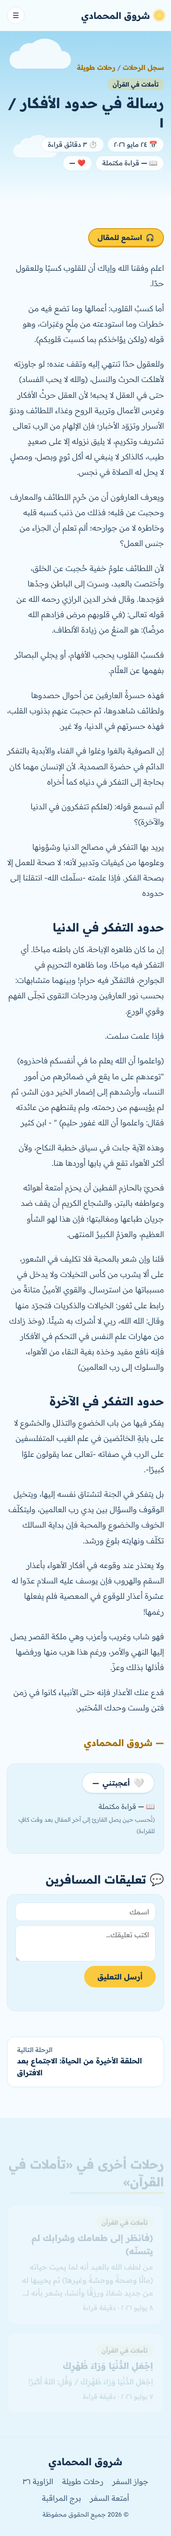
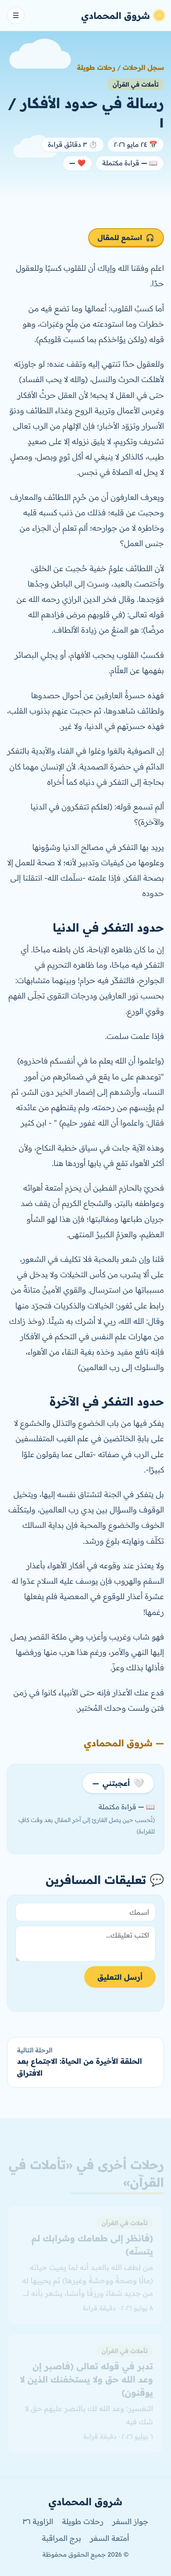
Add a poems category to long journeys
Poems in this category are laid out as verses automatically. The poem
«اِجْعَلِ الدُّنْيَا وَرَاءَ ظَهْرِكْ» moves into it.

Claude-Session: https://claude.ai/code/session_0148avAa54TH8wvGnnB1ukQi

diff --git a/blog/articles/ijal-ad-dunya.html b/blog/articles/ijal-ad-dunya.html
@@ -38,7 +38,7 @@
       <div class="clouds" aria-hidden="true"><span class="cloud c1"></span><span class="cloud c2"></span></div>
       <div class="container narrow">
         <nav class="crumbs" aria-label="مسار التنقل"><a href="../index.html">سجل الرحلات</a> / <a href="../articles.html">رحلات طويلة</a></nav>
-        <span class="tag">تأملات في القرآن</span>
+        <span class="tag">قصائد</span>
         <h1>اِجْعَلِ الدُّنْيَا وَرَاءَ ظَهْرِكْ</h1>
         <ul class="post-meta">
           <li>📅 ٧ يوليو ٢٠٢٦</li>
@@ -89,26 +89,6 @@
         <nav class="post-nav" aria-label="تنقل بين الرحلات"><a class="pn prev" href="fasbir-inna-wad-allah-haq.html"><span>الرحلة السابقة</span>تدبر في قوله تعالى (فاصبر إن وعد الله حق ولا يستخفنك الذين لا يوقنون)</a><a class="pn next" href="lam-yatasannah.html"><span>الرحلة التالية</span>(فانظر إلى طعامك وشرابك لم يتسنّه)</a></nav>
       </div>
     </article>
-
-    <section class="section alt">
-      <div class="container">
-        <h2 class="section-title">رحلات أخرى في «تأملات في القرآن»</h2>
-        <div class="posts">
-          <article class="post-card" data-tag="تأملات في القرآن">
-            <span class="tag">تأملات في القرآن</span>
-            <h3><a class="stretched" href="../articles/lam-yatasannah.html">(فانظر إلى طعامك وشرابك لم يتسنّه)</a></h3>
-            <p>من لطف الله بالعبد أنه لما يميت حياته (مالًا وصحةً ووحشةً وغيرها) ثم يحييها له من جديد شفاءً ورزقًا وأنسًا، يشعر بأنه لم ينقص منه شيء وبالفعل لم ينقص منه شيء، لأن الله جبره أعظم وكرمه أزود.</p>
-            <p class="meta">٨ يوليو ٢٠٢٦ · دقيقة قراءة</p>
-          </article>
-          <article class="post-card" data-tag="تأملات في القرآن">
-            <span class="tag">تأملات في القرآن</span>
-            <h3><a class="stretched" href="../articles/fasbir-inna-wad-allah-haq.html">تدبر في قوله تعالى (فاصبر إن وعد الله حق ولا يستخفنك الذين لا يوقنون)</a></h3>
-            <p>التفسير: وعد الله لك بالنصر عليهم حق لا شك فيه</p>
-            <p class="meta">٦ يوليو ٢٠٢٦ · دقيقة قراءة</p>
-          </article>
-        </div>
-      </div>
-    </section>
 
   </main>
 

diff --git a/blog/articles/lam-yatasannah.html b/blog/articles/lam-yatasannah.html
@@ -85,15 +85,15 @@
         <div class="posts">
           <article class="post-card" data-tag="تأملات في القرآن">
             <span class="tag">تأملات في القرآن</span>
-            <h3><a class="stretched" href="../articles/ijal-ad-dunya.html">اِجْعَلِ الدُّنْيَا وَرَاءَ ظَهْرِكْ</a></h3>
-            <p>اِجْعَلِ الدُّنْيَا وَرَاءَ ظَهْرِكْ / وَقُلِ: اللهُ أَكْبَرْ!</p>
-            <p class="meta">٧ يوليو ٢٠٢٦ · دقيقة قراءة</p>
-          </article>
-          <article class="post-card" data-tag="تأملات في القرآن">
-            <span class="tag">تأملات في القرآن</span>
             <h3><a class="stretched" href="../articles/fasbir-inna-wad-allah-haq.html">تدبر في قوله تعالى (فاصبر إن وعد الله حق ولا يستخفنك الذين لا يوقنون)</a></h3>
             <p>التفسير: وعد الله لك بالنصر عليهم حق لا شك فيه</p>
             <p class="meta">٦ يوليو ٢٠٢٦ · دقيقة قراءة</p>
+          </article>
+          <article class="post-card" data-tag="تأملات في القرآن">
+            <span class="tag">تأملات في القرآن</span>
+            <h3><a class="stretched" href="../articles/al-habl.html">الحبل: من أسماء القرآن</a></h3>
+            <p>قال فخر الدين الرازي رحمه الله أن من أسماء القرآن "الحَبْلُ: ﴿واعْتَصِمُوا بِحَبْلِ اللَّهِ جَمِيعًا﴾ [آلِ عِمْرانَ: ١٠٣] في التَّفْسِيرِ: إنَّهُ القُرْآنُ، وإنَّما سُمِّيَ بِهِ لِأنَّ المُعْتَصِمَ بِهِ في أُمُورِ دِينِهِ يَتَخَلَّصُ بِهِ مِن عُقُوبَةِ الآخِرَةِ ونَكالِ الدُّنْيا، كَما أنَّ المُتَمَسِّكَ بِالحَبْلِ يَنْجُو مِنَ الغَرَقِ والمَهالِكِ، ومِن ذَلِكَ سَمّاهُ النَّبِيُّ ﷺ عِصْمَةً فَقالَ: ”«إنَّ هَذا القُرْآنَ عِصْمَةٌ لِمَنِ اعْتَصَمَ بِهِ» “ لِأنَّهُ يَعْصِمُ النّاسَ مِنَ المَعاصِي."</p>
+            <p class="meta">٥ يوليو ٢٠٢٦ · دقيقة قراءة</p>
           </article>
         </div>
       </div>

diff --git a/blog/articles.html b/blog/articles.html
@@ -39,7 +39,7 @@
       <div class="container">
         <nav class="crumbs" aria-label="مسار التنقل"><a href="index.html">سجل الرحلات</a> / <span>رحلات طويلة</span></nav>
         <h1>رحلات طويلة</h1>
-        <p class="lead">تأملات في القرآن، ومقالات اجتماعية وفكرية.</p>
+        <p class="lead">تأملات في القرآن، ومقالات اجتماعية وفكرية، وقصائد.</p>
       </div>
     </section>
 
@@ -51,6 +51,7 @@
             <button class="filter" data-filter="تأملات في القرآن">تأملات في القرآن</button>
             <button class="filter" data-filter="مقالات اجتماعية">مقالات اجتماعية</button>
             <button class="filter" data-filter="مقالات فكرية">مقالات فكرية</button>
+            <button class="filter" data-filter="قصائد">قصائد</button>
           </div>
           <input class="search" type="search" placeholder="ابحث في الرحلات…" aria-label="ابحث في الرحلات الطويلة">
         </div>
@@ -61,8 +62,8 @@
             <p>من لطف الله بالعبد أنه لما يميت حياته (مالًا وصحةً ووحشةً وغيرها) ثم يحييها له من جديد شفاءً ورزقًا وأنسًا، يشعر بأنه لم ينقص منه شيء وبالفعل لم ينقص منه شيء، لأن الله جبره أعظم وكرمه أزود.</p>
             <p class="meta">٨ يوليو ٢٠٢٦ · دقيقة قراءة</p>
           </article>
-          <article class="post-card" data-tag="تأملات في القرآن">
-            <span class="tag">تأملات في القرآن</span>
+          <article class="post-card" data-tag="قصائد">
+            <span class="tag">قصائد</span>
             <h3><a class="stretched" href="articles/ijal-ad-dunya.html">اِجْعَلِ الدُّنْيَا وَرَاءَ ظَهْرِكْ</a></h3>
             <p>اِجْعَلِ الدُّنْيَا وَرَاءَ ظَهْرِكْ / وَقُلِ: اللهُ أَكْبَرْ!</p>
             <p class="meta">٧ يوليو ٢٠٢٦ · دقيقة قراءة</p>

diff --git a/blog/articles/fasbir-inna-wad-allah-haq.html b/blog/articles/fasbir-inna-wad-allah-haq.html
@@ -94,9 +94,9 @@
           </article>
           <article class="post-card" data-tag="تأملات في القرآن">
             <span class="tag">تأملات في القرآن</span>
-            <h3><a class="stretched" href="../articles/ijal-ad-dunya.html">اِجْعَلِ الدُّنْيَا وَرَاءَ ظَهْرِكْ</a></h3>
-            <p>اِجْعَلِ الدُّنْيَا وَرَاءَ ظَهْرِكْ / وَقُلِ: اللهُ أَكْبَرْ!</p>
-            <p class="meta">٧ يوليو ٢٠٢٦ · دقيقة قراءة</p>
+            <h3><a class="stretched" href="../articles/al-habl.html">الحبل: من أسماء القرآن</a></h3>
+            <p>قال فخر الدين الرازي رحمه الله أن من أسماء القرآن "الحَبْلُ: ﴿واعْتَصِمُوا بِحَبْلِ اللَّهِ جَمِيعًا﴾ [آلِ عِمْرانَ: ١٠٣] في التَّفْسِيرِ: إنَّهُ القُرْآنُ، وإنَّما سُمِّيَ بِهِ لِأنَّ المُعْتَصِمَ بِهِ في أُمُورِ دِينِهِ يَتَخَلَّصُ بِهِ مِن عُقُوبَةِ الآخِرَةِ ونَكالِ الدُّنْيا، كَما أنَّ المُتَمَسِّكَ بِالحَبْلِ يَنْجُو مِنَ الغَرَقِ والمَهالِكِ، ومِن ذَلِكَ سَمّاهُ النَّبِيُّ ﷺ عِصْمَةً فَقالَ: ”«إنَّ هَذا القُرْآنَ عِصْمَةٌ لِمَنِ اعْتَصَمَ بِهِ» “ لِأنَّهُ يَعْصِمُ النّاسَ مِنَ المَعاصِي."</p>
+            <p class="meta">٥ يوليو ٢٠٢٦ · دقيقة قراءة</p>
           </article>
         </div>
       </div>

diff --git a/index.html b/index.html
@@ -81,8 +81,8 @@
             <p>من لطف الله بالعبد أنه لما يميت حياته (مالًا وصحةً ووحشةً وغيرها) ثم يحييها له من جديد شفاءً ورزقًا وأنسًا، يشعر بأنه لم ينقص منه شيء وبالفعل لم ينقص منه شيء، لأن الله جبره أعظم وكرمه أزود.</p>
             <p class="meta">٨ يوليو ٢٠٢٦ · دقيقة قراءة</p>
           </article>
-          <article class="post-card" data-tag="تأملات في القرآن">
-            <span class="tag">تأملات في القرآن</span>
+          <article class="post-card" data-tag="قصائد">
+            <span class="tag">قصائد</span>
             <h3><a class="stretched" href="blog/articles/ijal-ad-dunya.html">اِجْعَلِ الدُّنْيَا وَرَاءَ ظَهْرِكْ</a></h3>
             <p>اِجْعَلِ الدُّنْيَا وَرَاءَ ظَهْرِكْ / وَقُلِ: اللهُ أَكْبَرْ!</p>
             <p class="meta">٧ يوليو ٢٠٢٦ · دقيقة قراءة</p>

diff --git a/blog/index.html b/blog/index.html
@@ -75,8 +75,8 @@
             <p>من لطف الله بالعبد أنه لما يميت حياته (مالًا وصحةً ووحشةً وغيرها) ثم يحييها له من جديد شفاءً ورزقًا وأنسًا، يشعر بأنه لم ينقص منه شيء وبالفعل لم ينقص منه شيء، لأن الله جبره أعظم وكرمه أزود.</p>
             <p class="meta">٨ يوليو ٢٠٢٦ · دقيقة قراءة</p>
           </article>
-          <article class="post-card" data-tag="تأملات في القرآن">
-            <span class="tag">تأملات في القرآن</span>
+          <article class="post-card" data-tag="قصائد">
+            <span class="tag">قصائد</span>
             <h3><a class="stretched" href="articles/ijal-ad-dunya.html">اِجْعَلِ الدُّنْيَا وَرَاءَ ظَهْرِكْ</a></h3>
             <p>اِجْعَلِ الدُّنْيَا وَرَاءَ ظَهْرِكْ / وَقُلِ: اللهُ أَكْبَرْ!</p>
             <p class="meta">٧ يوليو ٢٠٢٦ · دقيقة قراءة</p>

diff --git a/blog/articles/al-ghina-bil-quran.html b/blog/articles/al-ghina-bil-quran.html
@@ -103,9 +103,9 @@
           </article>
           <article class="post-card" data-tag="تأملات في القرآن">
             <span class="tag">تأملات في القرآن</span>
-            <h3><a class="stretched" href="../articles/ijal-ad-dunya.html">اِجْعَلِ الدُّنْيَا وَرَاءَ ظَهْرِكْ</a></h3>
-            <p>اِجْعَلِ الدُّنْيَا وَرَاءَ ظَهْرِكْ / وَقُلِ: اللهُ أَكْبَرْ!</p>
-            <p class="meta">٧ يوليو ٢٠٢٦ · دقيقة قراءة</p>
+            <h3><a class="stretched" href="../articles/fasbir-inna-wad-allah-haq.html">تدبر في قوله تعالى (فاصبر إن وعد الله حق ولا يستخفنك الذين لا يوقنون)</a></h3>
+            <p>التفسير: وعد الله لك بالنصر عليهم حق لا شك فيه</p>
+            <p class="meta">٦ يوليو ٢٠٢٦ · دقيقة قراءة</p>
           </article>
         </div>
       </div>

diff --git a/blog/articles/al-ijtima-bad-al-iftiraq.html b/blog/articles/al-ijtima-bad-al-iftiraq.html
@@ -155,9 +155,9 @@
           </article>
           <article class="post-card" data-tag="تأملات في القرآن">
             <span class="tag">تأملات في القرآن</span>
-            <h3><a class="stretched" href="../articles/ijal-ad-dunya.html">اِجْعَلِ الدُّنْيَا وَرَاءَ ظَهْرِكْ</a></h3>
-            <p>اِجْعَلِ الدُّنْيَا وَرَاءَ ظَهْرِكْ / وَقُلِ: اللهُ أَكْبَرْ!</p>
-            <p class="meta">٧ يوليو ٢٠٢٦ · دقيقة قراءة</p>
+            <h3><a class="stretched" href="../articles/fasbir-inna-wad-allah-haq.html">تدبر في قوله تعالى (فاصبر إن وعد الله حق ولا يستخفنك الذين لا يوقنون)</a></h3>
+            <p>التفسير: وعد الله لك بالنصر عليهم حق لا شك فيه</p>
+            <p class="meta">٦ يوليو ٢٠٢٦ · دقيقة قراءة</p>
           </article>
         </div>
       </div>

diff --git a/blog/articles/aw-ka-sayyib.html b/blog/articles/aw-ka-sayyib.html
@@ -106,9 +106,9 @@
           </article>
           <article class="post-card" data-tag="تأملات في القرآن">
             <span class="tag">تأملات في القرآن</span>
-            <h3><a class="stretched" href="../articles/ijal-ad-dunya.html">اِجْعَلِ الدُّنْيَا وَرَاءَ ظَهْرِكْ</a></h3>
-            <p>اِجْعَلِ الدُّنْيَا وَرَاءَ ظَهْرِكْ / وَقُلِ: اللهُ أَكْبَرْ!</p>
-            <p class="meta">٧ يوليو ٢٠٢٦ · دقيقة قراءة</p>
+            <h3><a class="stretched" href="../articles/fasbir-inna-wad-allah-haq.html">تدبر في قوله تعالى (فاصبر إن وعد الله حق ولا يستخفنك الذين لا يوقنون)</a></h3>
+            <p>التفسير: وعد الله لك بالنصر عليهم حق لا شك فيه</p>
+            <p class="meta">٦ يوليو ٢٠٢٦ · دقيقة قراءة</p>
           </article>
         </div>
       </div>

diff --git a/blog/articles/hudud-al-afkar-1.html b/blog/articles/hudud-al-afkar-1.html
@@ -113,9 +113,9 @@
           </article>
           <article class="post-card" data-tag="تأملات في القرآن">
             <span class="tag">تأملات في القرآن</span>
-            <h3><a class="stretched" href="../articles/ijal-ad-dunya.html">اِجْعَلِ الدُّنْيَا وَرَاءَ ظَهْرِكْ</a></h3>
-            <p>اِجْعَلِ الدُّنْيَا وَرَاءَ ظَهْرِكْ / وَقُلِ: اللهُ أَكْبَرْ!</p>
-            <p class="meta">٧ يوليو ٢٠٢٦ · دقيقة قراءة</p>
+            <h3><a class="stretched" href="../articles/fasbir-inna-wad-allah-haq.html">تدبر في قوله تعالى (فاصبر إن وعد الله حق ولا يستخفنك الذين لا يوقنون)</a></h3>
+            <p>التفسير: وعد الله لك بالنصر عليهم حق لا شك فيه</p>
+            <p class="meta">٦ يوليو ٢٠٢٦ · دقيقة قراءة</p>
           </article>
         </div>
       </div>

diff --git a/blog/articles/la-tamanna-ala-yusuf.html b/blog/articles/la-tamanna-ala-yusuf.html
@@ -103,9 +103,9 @@
           </article>
           <article class="post-card" data-tag="تأملات في القرآن">
             <span class="tag">تأملات في القرآن</span>
-            <h3><a class="stretched" href="../articles/ijal-ad-dunya.html">اِجْعَلِ الدُّنْيَا وَرَاءَ ظَهْرِكْ</a></h3>
-            <p>اِجْعَلِ الدُّنْيَا وَرَاءَ ظَهْرِكْ / وَقُلِ: اللهُ أَكْبَرْ!</p>
-            <p class="meta">٧ يوليو ٢٠٢٦ · دقيقة قراءة</p>
+            <h3><a class="stretched" href="../articles/fasbir-inna-wad-allah-haq.html">تدبر في قوله تعالى (فاصبر إن وعد الله حق ولا يستخفنك الذين لا يوقنون)</a></h3>
+            <p>التفسير: وعد الله لك بالنصر عليهم حق لا شك فيه</p>
+            <p class="meta">٦ يوليو ٢٠٢٦ · دقيقة قراءة</p>
           </article>
         </div>
       </div>

diff --git a/blog/articles/al-habl.html b/blog/articles/al-habl.html
@@ -98,9 +98,9 @@
           </article>
           <article class="post-card" data-tag="تأملات في القرآن">
             <span class="tag">تأملات في القرآن</span>
-            <h3><a class="stretched" href="../articles/ijal-ad-dunya.html">اِجْعَلِ الدُّنْيَا وَرَاءَ ظَهْرِكْ</a></h3>
-            <p>اِجْعَلِ الدُّنْيَا وَرَاءَ ظَهْرِكْ / وَقُلِ: اللهُ أَكْبَرْ!</p>
-            <p class="meta">٧ يوليو ٢٠٢٦ · دقيقة قراءة</p>
+            <h3><a class="stretched" href="../articles/fasbir-inna-wad-allah-haq.html">تدبر في قوله تعالى (فاصبر إن وعد الله حق ولا يستخفنك الذين لا يوقنون)</a></h3>
+            <p>التفسير: وعد الله لك بالنصر عليهم حق لا شك فيه</p>
+            <p class="meta">٦ يوليو ٢٠٢٦ · دقيقة قراءة</p>
           </article>
         </div>
       </div>
